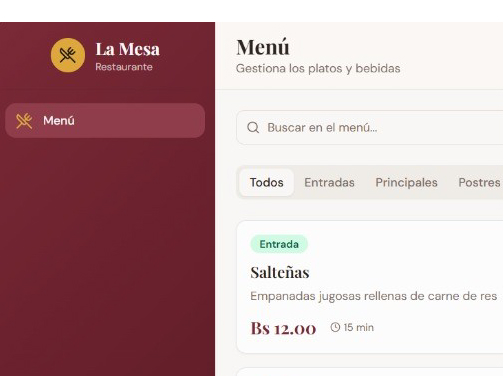
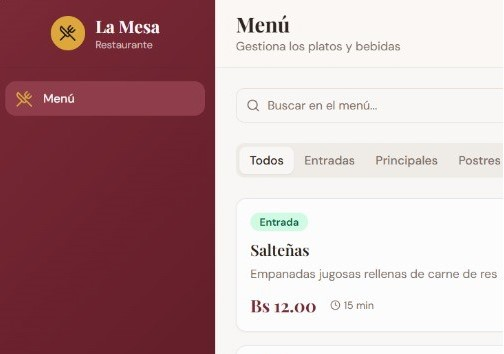
algunos ajustes finales

diff --git a/Portafolio/index.html b/Portafolio/index.html
@@ -6,7 +6,7 @@
     <body>
         <header>
             <nav>
-                <a href="#" class="nav-link" data-index="0">Inicio</a>
+                <a href="#" class="nav-link activo" data-index="0">Inicio</a>
                 <a href="#" class="nav-link" data-index="1">Galería</a>
                 <a href="#" class="nav-link" data-index="2">Blog</a>
                 <a href="#" class="nav-link" data-index="3">Sobre Mí</a>
@@ -16,25 +16,25 @@
         <div class="seccion-rueda textos-principales">
             <h1>MIJAEL ANDER CALLEJAS AGUIRRE</h1>
             <h2 class="subtitulo-texto">INGENIERO EN SOFTWARE</h2>
-            <p class="texto-intro">texto...</p>
+            <p class="texto-intro">Estudiante de quinto semestre de Ingeniera en Software, ilustrador y editor de audio/video</p>
         </div>
         <div class = "seccion-rueda proyectos">
-            <h2 class="subtitulo-texto">PROYECTOS REALIZADOS</h2>
+            <h2>PROYECTOS REALIZADOS</h2>
             <div class = "contenedor-tarjetas">
                 <div class ="tarjeta" onclick="window.open('https://drive.google.com/drive/folders/10ud3R1KHlCEVmI1xAp6oNOg2akF7WGTG')">
-                <img src= "srcimages/Proyectos/TouhouBuild.png">
-                <h3>Titulo</h3>
-                <p>descripcion</p>
+                    <img src= "srcimages/Proyectos/TouhouBuild.png">
+                    <h3>Heaven Studio Touhou Build</h3>
+                    <p>Editor y Videojuego de ritmo, inspirado en Rhythm Heaven, readaptando y poniendo los juegos de Touhou Rhythm Carnival</p>
                 </div>
                 <div class ="tarjeta" onclick="window.open('https://github.com/Diegolew/ProyectoDise-oSoftware')">
-                <img src= "srcimages/Proyectos/LaMesa.jpg">
-                <h3>Titulo</h3>
-                <p>descripcion</p>
+                    <img src= "srcimages/Proyectos/LaMesa.jpg">
+                    <h3>La Mesa</h3>
+                    <p>Pagina para hacer la gestión dentro de un restaurante, adaptado para el uso de delivery, cocinero, cliente y mesero</p>
                 </div>
                 <div class ="tarjeta" onclick="window.open('https://github.com/Andress-Mallea/Final-Progra-Base2')">
-                <img src= "srcimages/Proyectos/PedidosAhorita.jpg">
-                <h3>Titulo</h3>
-                <p>descripcion</p>
+                    <img src= "srcimages/Proyectos/PedidosAhorita.jpg">
+                    <h3>Pedidos Ahorita</h3>
+                    <p>Pagina de compra y venta de diferentes productos, realizado para tener tu tienda online</p>
                 </div>
             </div>
         </div>
@@ -68,16 +68,32 @@
             <h2>Sobre Mi</h2>
             <div class="informacion">
                 <div class="infobloque">
+                    <img src= "srcimages/Blog/FotoDePerfil.png">
                     <div class="infoprincipal">
-                        <h3>Youtube</h3>
-                        <p>texto...</p>
+                        <h3>Mijael Ander Callejas Aguirre</h3>
+                        <div class="infotarjeta">
+                            <h3>Info Basica</h3>
+                            <p>Estudiante de quinto semestre de Ingeniera en Software, ilustrador y editor de audio/video</p>
+                        </div>
                     </div>
-                    <p>texto...</p>
+                    <div class="infotarjeta">
+                        <h3>Educación</h3>
+                        <p>Bachiller del colegio Británico Santa Cruz, actualmente estudiando Ingeniera en Software en la Universidad Catolica Boliviana Santa Cruz, con nivel de ingles B1, competidor en la competencia ICPC internacional 2025</p>
+                    </div>
                 </div>
                 <div class="infobloque">
-                    <p>texto...</p>
-                    <p>texto...</p>
-                    <p>texto...</p>
+                    <div class="infotarjeta">
+                        <h3>Experiencia</h3>
+                        <p>Trabajo en equipo, apoyando como desarrollador, tester y como líder, con experiencia con un equipo de trabajo remoto, con comunicación constante y habla y entendimiento de ingles</p>
+                    </div>
+                    <div class="infotarjeta">
+                        <h3>Habilidades</h3>
+                        <p>Desarrollador enfocado en diseño visual, , desarrollo de videojuegos en Unity y Scratch, con un muy buen entendimiento en C++, Java, Phyton, C#, con capacidad de analizar casos posibles para poder analizar problemas</p>
+                    </div>
+                    <div class="infotarjeta">
+                        <h3>Hobbies</h3>
+                        <p>Diseño e ilustración digital, especializado en diseño de personajes con certificacion, editor de audio video, especializado en videos musicales, cortos, videos para youtube y tik tok, con experiencia de 6 años con Filmora y FL studio 20</p>
+                    </div>
                 </div>
             </div>
         </div>

diff --git a/Portafolio/css/styles.css b/Portafolio/css/styles.css
@@ -1,6 +1,7 @@
 body {
     background-color: #A7CFED;
     overflow: hidden;
+    font-family: "Helvetica";
 }
 header {
     position: relative;
@@ -27,22 +28,33 @@ nav a {
     text-align: center;
     z-index: 2;
 }
+.textos-principales, .proyectos, .sobre-mi, .blog, .contacto
+{
+    padding: 50px 0px;
+}
+.textos-principales h1, .textos-principales h2
+{
+    font-weight: bold;
+}
 .subtitulo-texto
 {
     color: #4C71DB;
 }
 .texto-intro
 {
+    text-align: left;
     color: #ffffff;
     background-color: #4C71DB;
-    padding: 20px;
+    padding: 25px;
     border-radius: 10px;
     display: inline-block;
+    text-overflow: ellipsis;
+    max-width: 200px;
 }
 .Circulo-Fondo
 {
-    width: 50vw;
-    height: 500px;
+    width: 100vw;
+    height: 450px;
     border-radius: 50%;
     position: absolute;
     bottom: -250px;
@@ -55,6 +67,10 @@ nav a {
     gap: 40px;
     justify-content: center;
 }
+.proyectos h2, .sobre-mi h2, .blog h2, .contacto h2 {
+    color: #4F32B7;
+    margin-bottom: 20px;
+}
 .tarjeta {
     cursor: pointer;
     background-color: #ffffff;
@@ -64,16 +80,19 @@ nav a {
     border-radius: 10px;
     display: inline-block;
     width: 300px;
-    height: 400px;
+    height: auto;
     text-align: center;
+    text-overflow: ellipsis;
 }
 .tarjeta h3{
     font-size: 22px;
-    margin-top: 15px;
+    margin-left: 20px;
+    margin-right: 20px;
 }
 .tarjeta p{
     font-size: 16px;
-    margin-top: 10px;
+    margin-left: 20px;
+    margin-right: 20px;
 }
 .tarjeta img {
     width: 100%;
@@ -169,18 +188,70 @@ nav a {
 }
 .informacion
 {
-    padding: 50px;
     flex-direction: column;
     display: flex;
 }
 .infobloque
 {
     gap: 50px;
+    padding-top: 0px;
+    padding-bottom: 20px;
     flex-direction: row;
     display: flex;
 }
 .infoprincipal
 {
+    margin: 0;
     flex-direction: column;
     display: flex;
+}
+.infoprincipal h3
+{
+    color: #4F32B7;
+    display: inline-block;
+    max-width: 200px;
+}
+.infotarjeta
+{
+    background-color: #ffffff;
+    border-radius: 10px;
+    text-align: center;
+    display: inline-block;
+    text-overflow: ellipsis;
+    max-width: 250px;
+    max-height: 225px;
+    min-height: auto;
+}
+.infotarjeta p
+{
+    text-align: left;
+    padding: 20px;
+    padding-top: 0px;
+    font-size: 14px;
+}
+.infotarjeta h3
+{
+    color: black;
+}
+.infobloque img
+{
+    width: 200px;
+    height: 200px;
+    padding: 20px;
+    border-radius: 25%;
+    object-fit: cover;
+    display: block;
+}
+.nav-link.activo {
+    background-color: #4C71DB;
+    color: white !important;
+    font-weight: bold;
+    border-radius: 5px;
+    padding: 5px 12px;
+    transition: all 0.3s ease;
+}
+
+nav a {
+    padding: 5px;
+    border: 1px solid transparent; 
 }

diff --git a/Portafolio/js/main.js b/Portafolio/js/main.js
@@ -19,10 +19,19 @@ function cambiarSeccion(nuevoIndice) {
             sec.classList.add('estado-futuro');
         }
     });
-
+    links.forEach((link, i) => {
+        if (i === nuevoIndice) {
+            link.classList.add('activo');
+        } else {
+            link.classList.remove('activo');
+        }
+    });
     indiceActual = nuevoIndice;
     setTimeout(() => { bloqueado = false; }, 1000);
 }
+
+cambiarSeccion(0);
+
 window.addEventListener('wheel', (e) => {
     if (e.deltaY > 0) {
         cambiarSeccion(indiceActual + 1);
